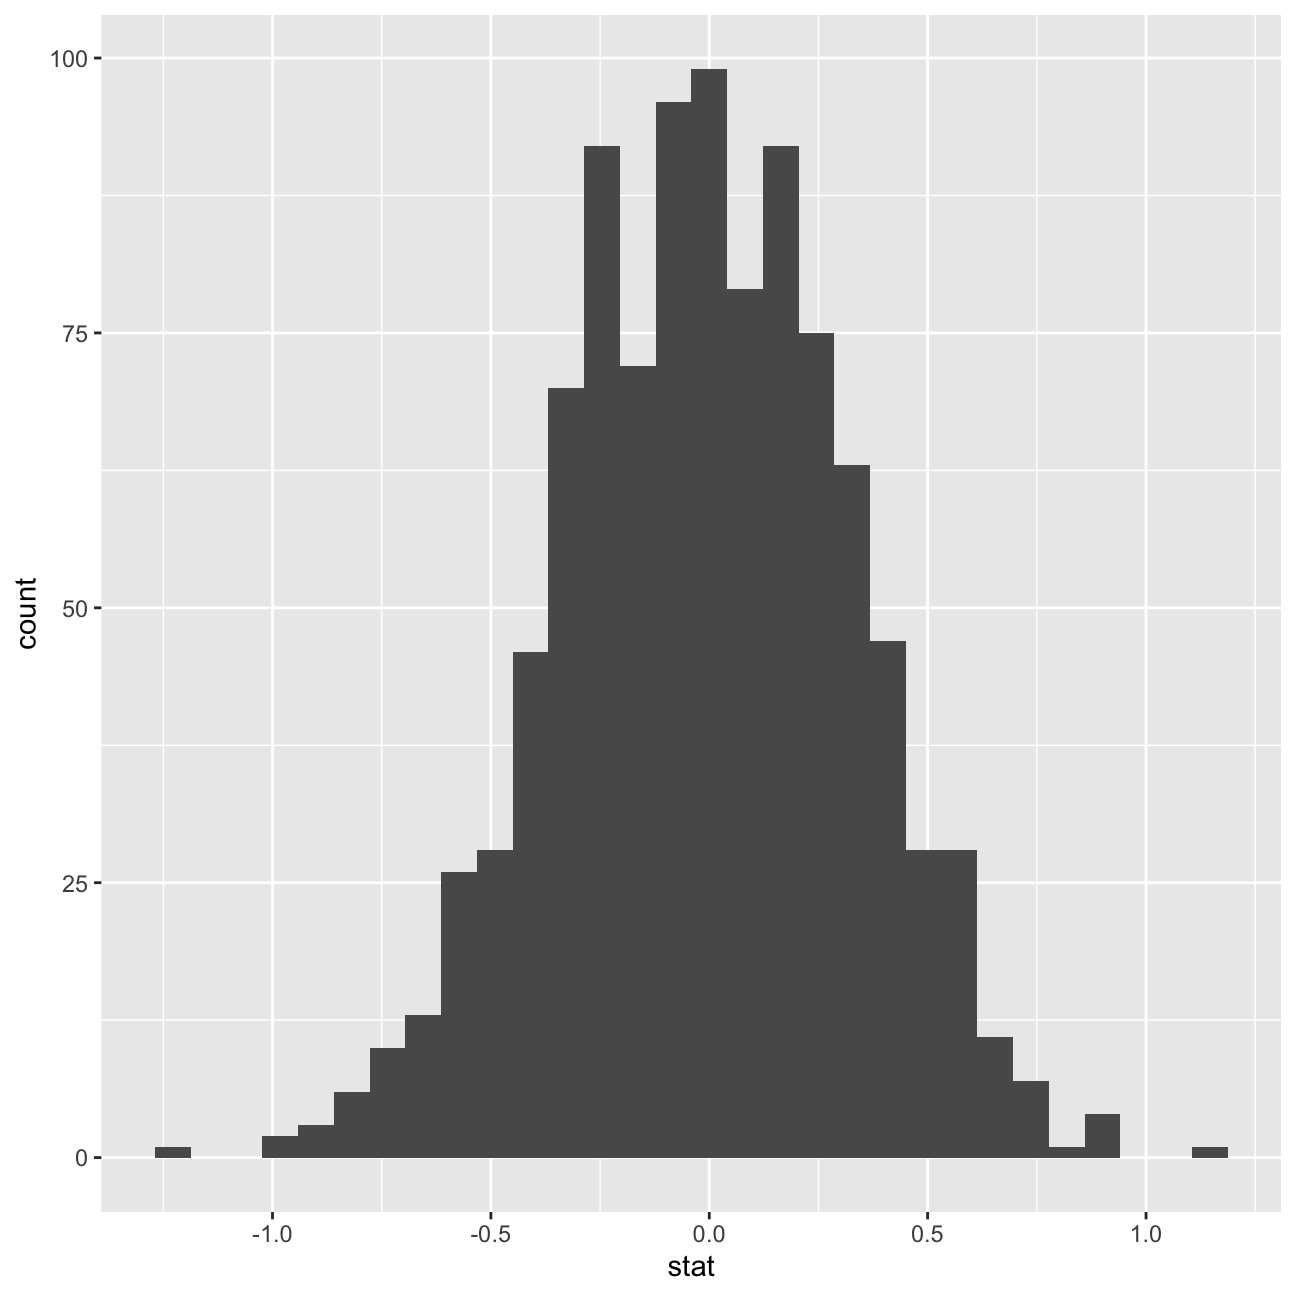
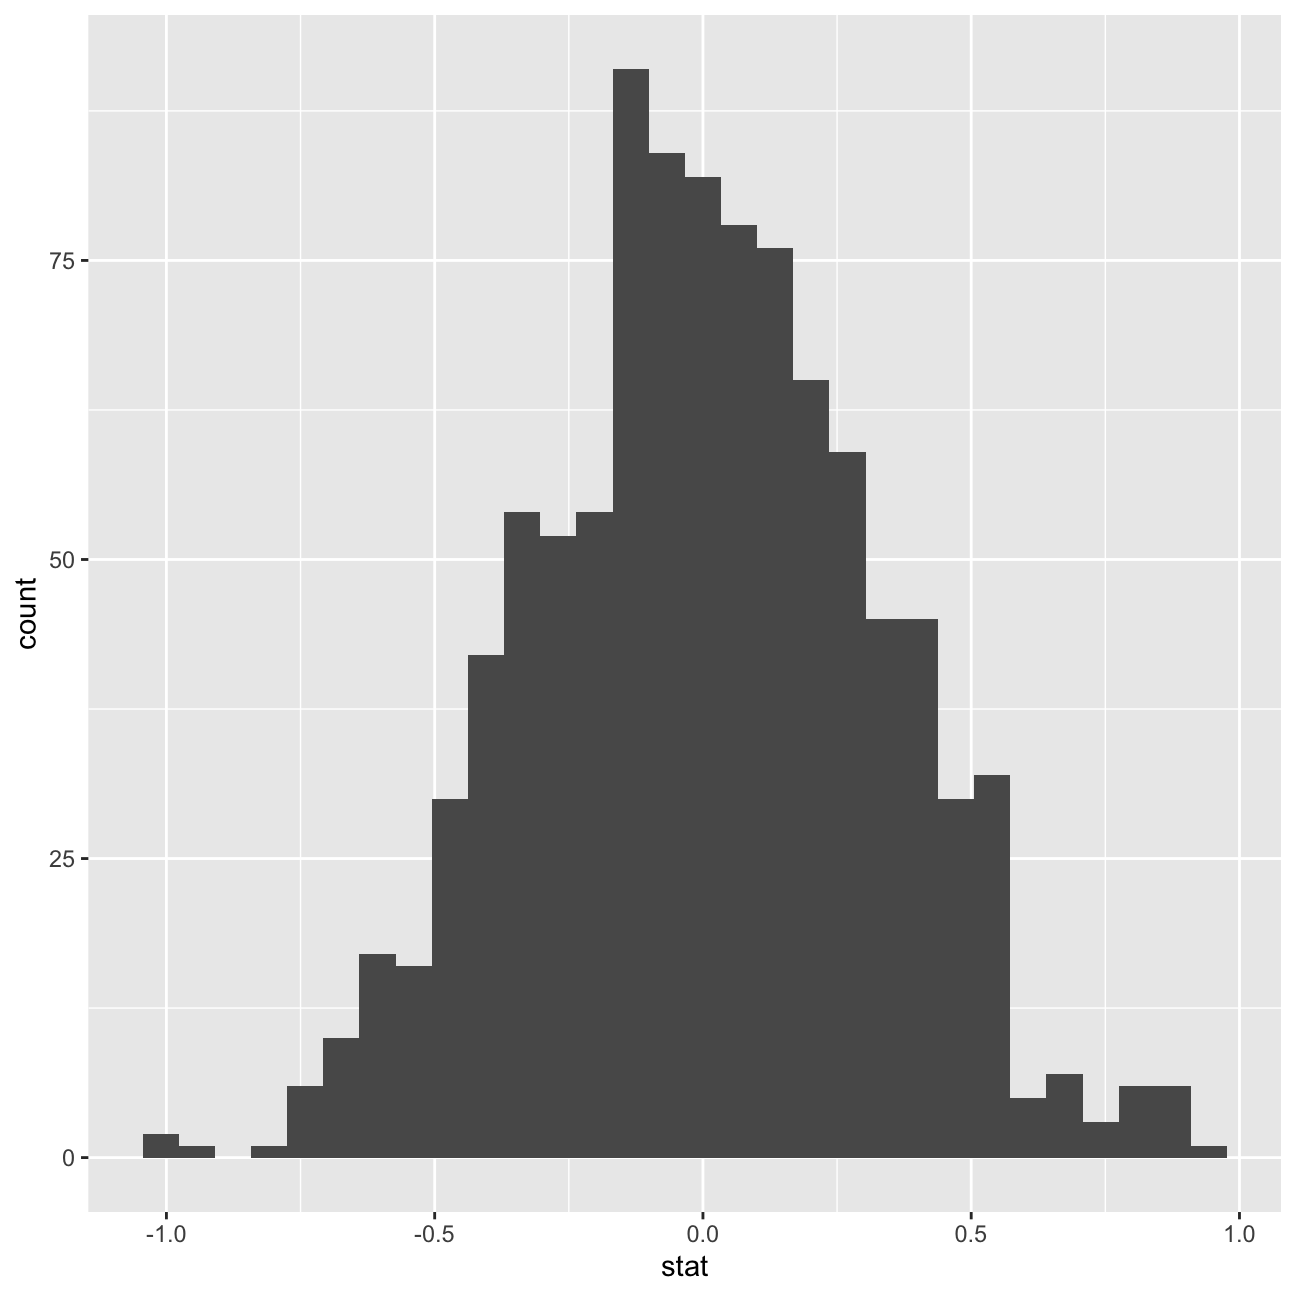
aaa

diff --git a/content/blogs/homework3_group9_complete.html b/content/blogs/homework3_group9_complete.html
@@ -591,16 +591,16 @@ null_dist</code></pre>
 ## # A tibble: 1,000 x 2
 ##    replicate    stat
 ##        &lt;int&gt;   &lt;dbl&gt;
-##  1         1 -0.184 
-##  2         2 -0.403 
-##  3         3  0.714 
-##  4         4 -0.365 
-##  5         5 -0.836 
-##  6         6 -0.0154
-##  7         7  0.546 
-##  8         8 -0.522 
-##  9         9 -0.142 
-## 10        10 -0.108 
+##  1         1 -0.0442
+##  2         2  0.0172
+##  3         3 -0.282 
+##  4         4 -0.315 
+##  5         5  0.0982
+##  6         6  0.0831
+##  7         7 -0.194 
+##  8         8  0.541 
+##  9         9 -0.160 
+## 10        10 -0.115 
 ## # … with 990 more rows</code></pre>
 <p>Here, <code>hypothesize</code> is used to set the null hypothesis as a test for independence, i.e., that there is no difference between the two population means. In one sample cases, the null argument can be set to <em>point</em> to test a hypothesis relative to a point estimate.</p>
 <p>Also, note that the <code>type</code> argument within generate is set to permute, which is the argument when generating a null distribution for a hypothesis test.</p>
@@ -745,18 +745,18 @@ null_dist_2</code></pre>
 ## Explanatory: gender (factor)
 ## Null Hypothesis: independence
 ## # A tibble: 1,000 x 2
-##    replicate   stat
-##        &lt;int&gt;  &lt;dbl&gt;
-##  1         1 -1779.
-##  2         2  2403.
-##  3         3 -4556.
-##  4         4  1957.
-##  5         5 -1738.
-##  6         6   246.
-##  7         7  -440.
-##  8         8 -1242.
-##  9         9  4205.
-## 10        10  2676.
+##    replicate    stat
+##        &lt;int&gt;   &lt;dbl&gt;
+##  1         1  -506. 
+##  2         2 -1779. 
+##  3         3  -349. 
+##  4         4 -2572. 
+##  5         5  1296. 
+##  6         6  -498. 
+##  7         7    31.1
+##  8         8  -308. 
+##  9         9 -1233. 
+## 10        10  1023. 
 ## # … with 990 more rows</code></pre>
 <pre class="r"><code>null_dist_2 %&gt;% visualize()</code></pre>
 <p><img src="/blogs/homework3_group9_complete_files/figure-html/hypothesis_testing-1.png" width="648" style="display: block; margin: auto;" /></p>
@@ -830,18 +830,18 @@ null_dist_3</code></pre>
 ## Explanatory: gender (factor)
 ## Null Hypothesis: independence
 ## # A tibble: 1,000 x 2
-##    replicate    stat
-##        &lt;int&gt;   &lt;dbl&gt;
-##  1         1 -2.84  
-##  2         2  1.96  
-##  3         3 -1.24  
-##  4         4  1.16  
-##  5         5 -1.64  
-##  6         6  0.0417
-##  7         7 -0.439 
-##  8         8  3.57  
-##  9         9  1.00  
-## 10        10 -7.33  
+##    replicate   stat
+##        &lt;int&gt;  &lt;dbl&gt;
+##  1         1  1.32 
+##  2         2  2.85 
+##  3         3  1.72 
+##  4         4  5.41 
+##  5         5 -1.72 
+##  6         6 -0.599
+##  7         7 -2.92 
+##  8         8 -3.88 
+##  9         9  1.72 
+## 10        10  0.603
 ## # … with 990 more rows</code></pre>
 <pre class="r"><code>null_dist_3 %&gt;% visualize()</code></pre>
 <p><img src="/blogs/homework3_group9_complete_files/figure-html/unnamed-chunk-7-1.png" width="648" style="display: block; margin: auto;" /></p>
@@ -1178,29 +1178,4 @@ wide_GDP_data %&gt;%
 <p>Gross capital formation, which indicates the level of investment slightly decreases over time in Germany, slightly increased in the US, and increased significantly in India especially since 2000. Hence, we can reasonably speculate that India might have gone through a period of rapid development, with households decreasing their consumption, saving more money, and initiating more investments.</p>
 <p>Government expenditure has been stable in Germany and India, but exhibits a decreasing trend for the US, probably due to a tightening government budget and increasing level of debt. It is worth noting that India’s gross capital formation proportion in GDP has always beeen 10-30% above the government expenditure proportion level, while these two components have been competing for Germany and the US, both fluctuating at around 20%.</p>
 <p>Net exports have been stable for India and the US before 2000 and both experienced a decrease of about 5% after then. Germany’s net export proportion level has also been stable until 2000 and experienced an increase afterwards, which suggests that it became more of an exporter than importer than it was before 2000.</p>
-<blockquote>
-<p>If you want to, please change <code>country_list &lt;- c("United States","India", "Germany")</code> to include your own country and compare it with any two other countries you like</p>
-</blockquote>
-</div>
-<div id="deliverables" class="section level1">
-<h1>Deliverables</h1>
-<p>There is a lot of explanatory text, comments, etc. You do not need these, so delete them and produce a stand-alone document that you could share with someone. Knit the edited and completed R Markdown file as an HTML document (use the “Knit” button at the top of the script editor window) and upload it to Canvas.</p>
-</div>
-<div id="details" class="section level1">
-<h1>Details</h1>
-<ul>
-<li>Who did you collaborate with: TYPE NAMES HERE</li>
-<li>Approximately how much time did you spend on this problem set: ANSWER HERE</li>
-<li>What, if anything, gave you the most trouble: ANSWER HERE</li>
-</ul>
-<p><strong>Please seek out help when you need it,</strong> and remember the <a href="https://mam2022.netlify.app/syllabus/#the-15-minute-rule" target="_blank">15-minute rule</a>. You know enough R (and have enough examples of code from class and your readings) to be able to do this. If you get stuck, ask for help from others, post a question on Slack– and remember that I am here to help too!</p>
-<blockquote>
-<p>As a true test to yourself, do you understand the code you submitted and are you able to explain it to someone else?</p>
-</blockquote>
-</div>
-<div id="rubric" class="section level1">
-<h1>Rubric</h1>
-<p>Check minus (1/5): Displays minimal effort. Doesn’t complete all components. Code is poorly written and not documented. Uses the same type of plot for each graph, or doesn’t use plots appropriate for the variables being analyzed.</p>
-<p>Check (3/5): Solid effort. Hits all the elements. No clear mistakes. Easy to follow (both the code and the output).</p>
-<p>Check plus (5/5): Finished all components of the assignment correctly and addressed both challenges. Code is well-documented (both self-documented and with additional comments as necessary). Used tidyverse, instead of base R. Graphs and tables are properly labelled. Analysis is clear and easy to follow, either because graphs are labeled clearly or you’ve written additional text to describe how you interpret the output.</p>
 </div>

diff --git a/content/blogs/homework1.1.html b/content/blogs/homework1.1.html
@@ -2477,25 +2477,3 @@ election_polls_germany &lt;- polls[[1]] %&gt;% # the first table on the page con
   knitr::opts_chunk$set(fig.width=unit(10,&quot;cm&quot;), fig.height=unit(10,&quot;cm&quot;))</code></pre>
 <p><img src="/blogs/homework1.1_files/figure-html/unnamed-chunk-20-1.png" width="648" style="display: block; margin: auto;" /></p>
 </div>
-<div id="deliverables" class="section level1">
-<h1>Deliverables</h1>
-<p>There is a lot of explanatory text, comments, etc. You do not need these, so delete them and produce a stand-alone document that you could share with someone. Knit the edited and completed R Markdown file as an HTML document (use the “Knit” button at the top of the script editor window) and upload it to Canvas.</p>
-</div>
-<div id="details" class="section level1">
-<h1>Details</h1>
-<ul>
-<li>Who did you collaborate with: Stephen Zhu, Aman Sharma, Rishabh Kaushik, Vera Meanti, Sarah Wu, Ziyue Chen</li>
-<li>Approximately how much time did you spend on this problem set: 5 hours</li>
-<li>What, if anything, gave you the most trouble:</li>
-</ul>
-<p><strong>Please seek out help when you need it,</strong> and remember the <a href="https://mam2022.netlify.app/syllabus/#the-15-minute-rule" target="_blank">15-minute rule</a>. You know enough R (and have enough examples of code from class and your readings) to be able to do this. If you get stuck, ask for help from others, post a question on Slack– and remember that I am here to help too!</p>
-<blockquote>
-<p>As a true test to yourself, do you understand the code you submitted and are you able to explain it to someone else?</p>
-</blockquote>
-</div>
-<div id="rubric" class="section level1">
-<h1>Rubric</h1>
-<p>Check minus (1/5): Displays minimal effort. Doesn’t complete all components. Code is poorly written and not documented. Uses the same type of plot for each graph, or doesn’t use plots appropriate for the variables being analyzed.</p>
-<p>Check (3/5): Solid effort. Hits all the elements. No clear mistakes. Easy to follow (both the code and the output).</p>
-<p>Check plus (5/5): Finished all components of the assignment correctly and addressed both challenges. Code is well-documented (both self-documented and with additional comments as necessary). Used tidyverse, instead of base R. Graphs and tables are properly labelled. Analysis is clear and easy to follow, either because graphs are labeled clearly or you’ve written additional text to describe how you interpret the output.</p>
-</div>
